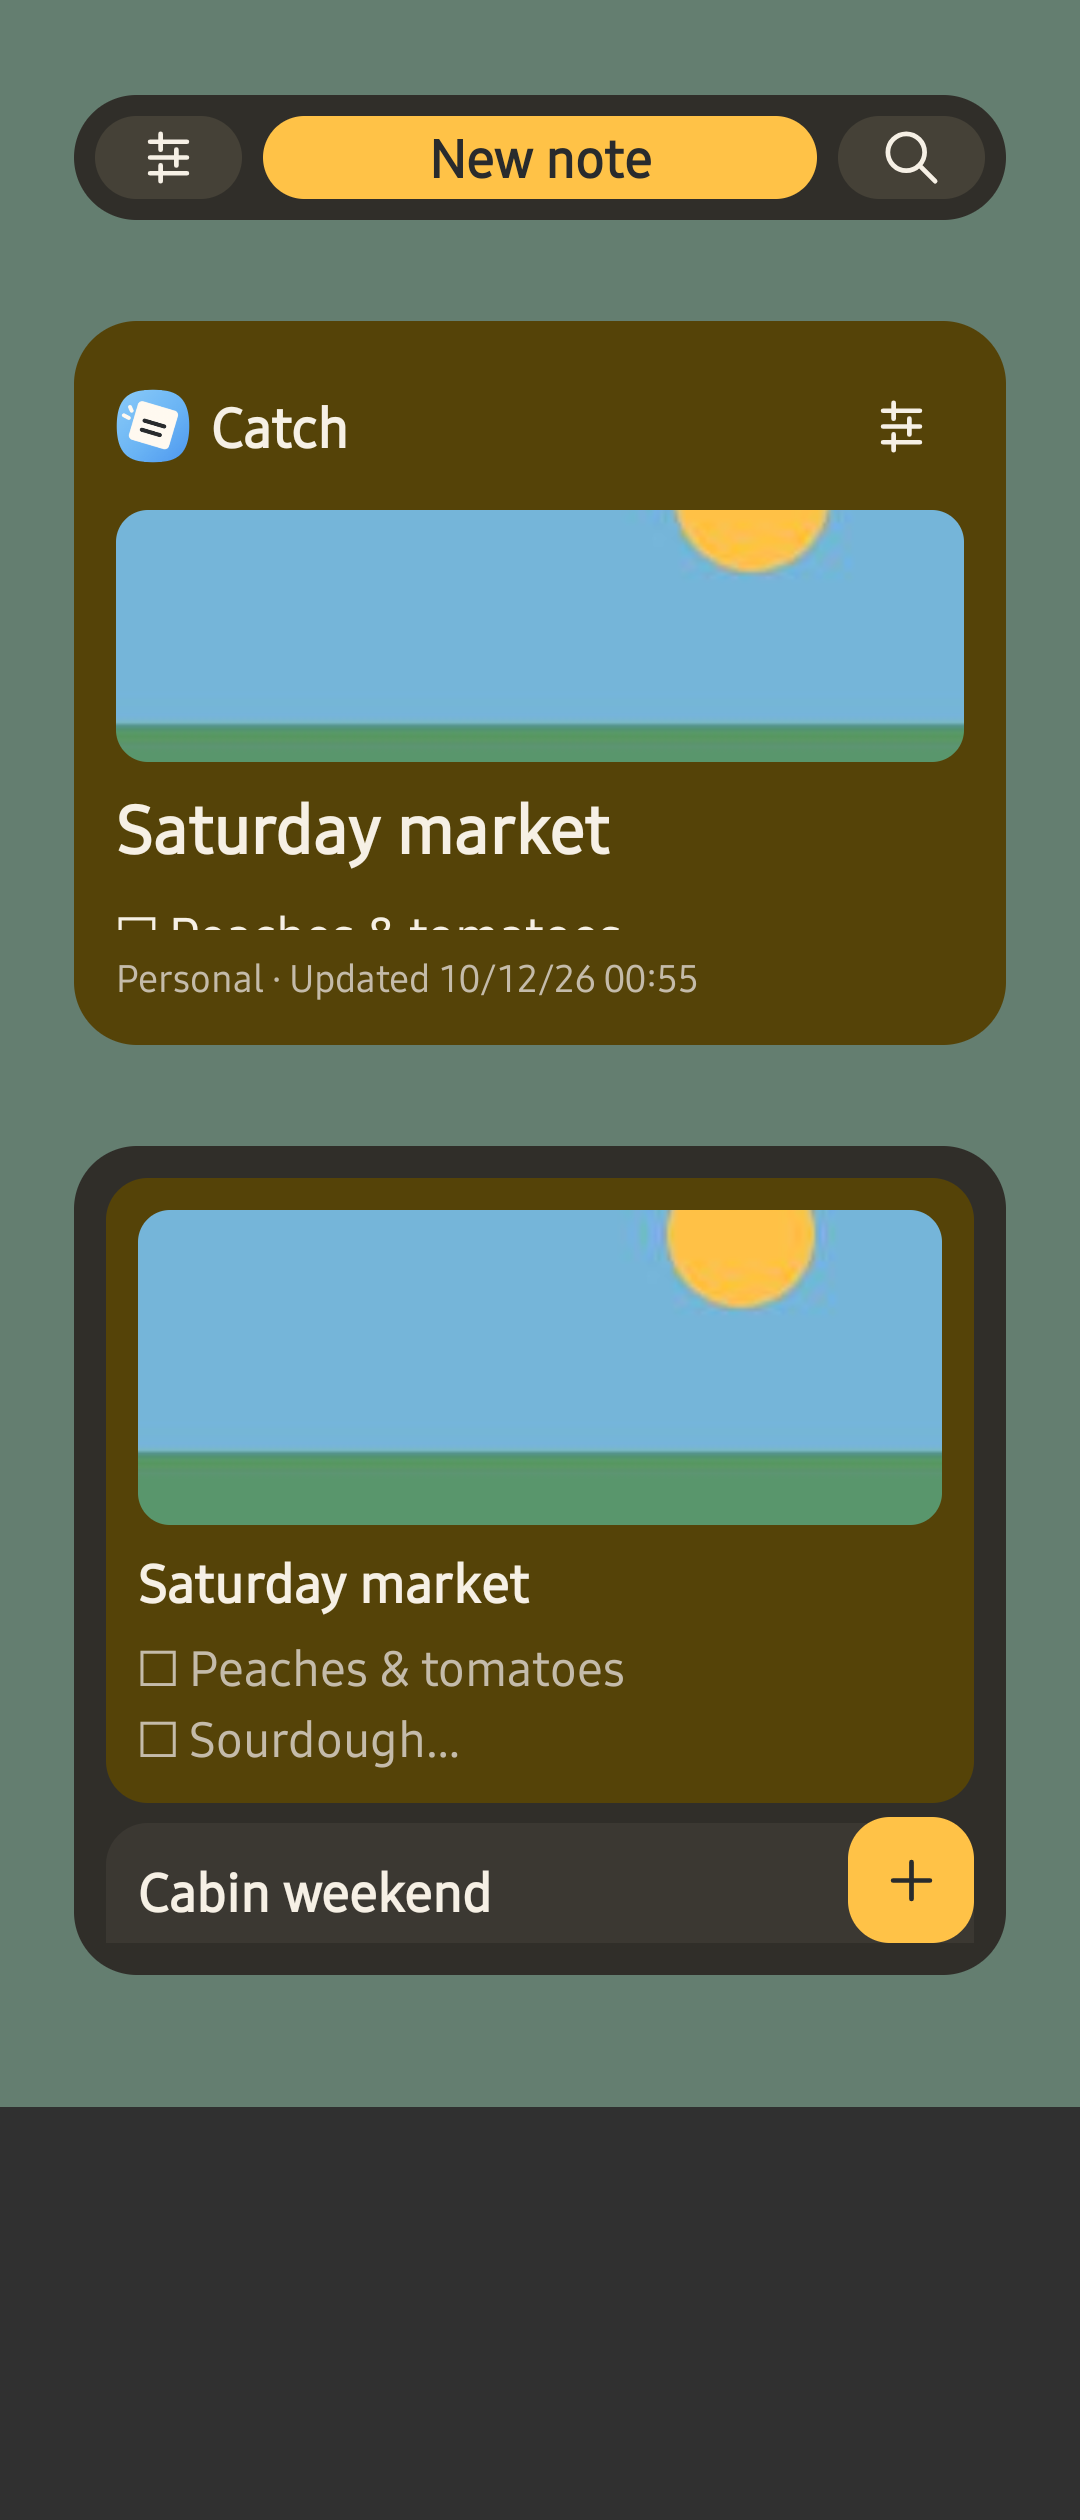
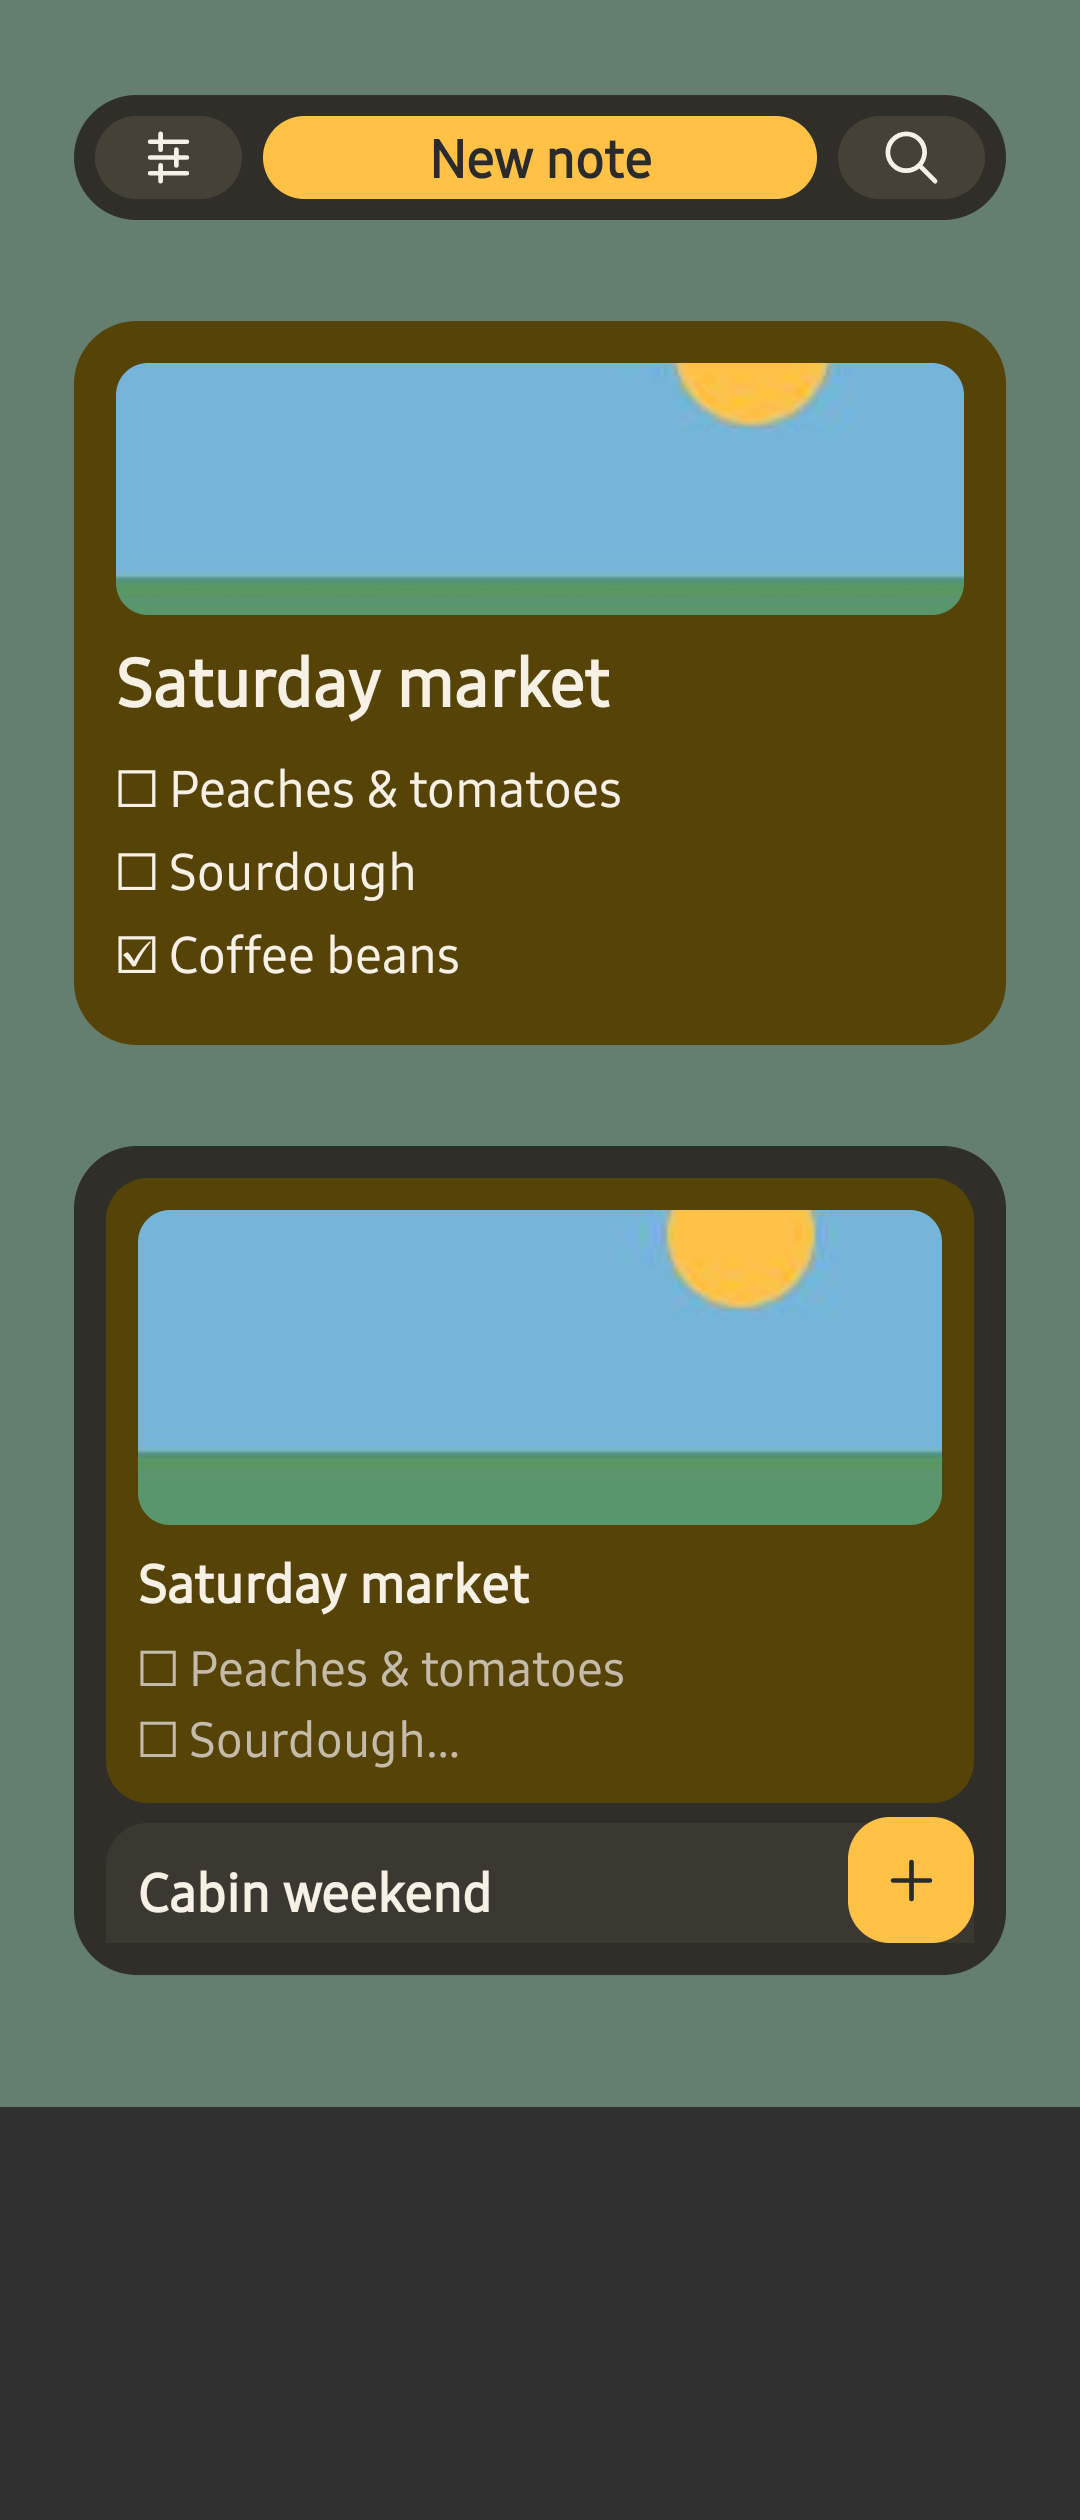
feat(android): remove the header and footer from the one note widget

Changed region(s): [[0.0917, 0.1238, 0.9167, 0.4024], [0.5806, 0.3714, 0.6417, 0.4024], [0.5194, 0.3714, 0.55, 0.4024]]

diff --git a/apps/web/android/app/src/main/java/org/iloni/catchnotes/CatchWidgetProvider.java b/apps/web/android/app/src/main/java/org/iloni/catchnotes/CatchWidgetProvider.java
@@ -120,8 +120,8 @@ public class CatchWidgetProvider extends AppWidgetProvider {
                         ? (customTheme ? R.layout.widget_capture_custom : R.layout.widget_capture)
                         : "single".equals(kind)
                                 ? (customTheme
-                                        ? R.layout.widget_single_scroll_custom
-                                        : R.layout.widget_single_scroll)
+                                        ? R.layout.widget_single_minimal_custom
+                                        : R.layout.widget_single_minimal)
                                 : (customTheme
                                         ? R.layout.widget_list_minimal_custom
                                         : R.layout.widget_list_minimal);
@@ -130,10 +130,10 @@ public class CatchWidgetProvider extends AppWidgetProvider {
         views.setImageViewResource(R.id.widget_surface, R.drawable.widget_surface);
         if (customTheme) {
             views.setInt(R.id.widget_surface, "setColorFilter", dark ? 0xff302e29 : 0xfffff9f0);
-            if (!"list".equals(kind))
+            if ("capture".equals(kind))
                 views.setInt(R.id.widget_settings, "setColorFilter", ink(dark));
         }
-        if (!"list".equals(kind))
+        if ("capture".equals(kind))
             views.setOnClickPendingIntent(R.id.widget_settings, configureIntent(context, id));
         boolean signedIn = account.length() > 0;
         if ("capture".equals(kind)) {
@@ -167,40 +167,16 @@ public class CatchWidgetProvider extends AppWidgetProvider {
             views.setViewVisibility(
                     R.id.widget_search, width > 0 && width < 250 ? View.GONE : View.VISIBLE);
         } else {
-            if (customTheme && "single".equals(kind)) {
-                views.setTextColor(R.id.widget_heading, ink(dark));
-                views.setTextColor(R.id.widget_footer, muted(dark));
-            }
             List<JSONObject> notes = WidgetStore.notes(snapshot, config);
             if ("single".equals(kind)) {
-                String updated =
-                        account.optLong("updated") == 0
-                                ? "Open Catch to load notes"
-                                : "Updated "
-                                        + android.text.format.DateFormat.getDateFormat(context)
-                                                .format(
-                                                        new java.util.Date(
-                                                                account.optLong("updated")))
-                                        + " "
-                                        + android.text.format.DateFormat.getTimeFormat(context)
-                                                .format(
-                                                        new java.util.Date(
-                                                                account.optLong("updated")));
-                views.setTextViewText(
-                        R.id.widget_footer,
-                        signedIn
-                                ? account.optString("label") + " · " + updated
-                                : "Choose an account in widget settings");
                 JSONObject note = notes.isEmpty() ? null : notes.get(0);
-                int height =
-                        AppWidgetManager.getInstance(context)
-                                .getAppWidgetOptions(id)
-                                .getInt(AppWidgetManager.OPTION_APPWIDGET_MIN_HEIGHT, 250);
-                boolean compact = height < 220;
-                views.setViewVisibility(R.id.widget_footer, compact ? View.GONE : View.VISIBLE);
-                views.setTextViewText(R.id.widget_heading, "Catch");
                 views.setTextViewText(
-                        R.id.widget_empty, "Open widget settings to choose an available note.");
+                        R.id.widget_empty,
+                        !signedIn
+                                ? "Set up this widget to see a note."
+                                : account.optLong("updated") == 0
+                                        ? "Open Catch to load notes."
+                                        : "Touch to choose an available note.");
                 views.setOnClickPendingIntent(R.id.widget_empty, configureIntent(context, id));
                 views.setViewVisibility(R.id.widget_note, note == null ? View.GONE : View.VISIBLE);
                 views.setViewVisibility(R.id.widget_empty, note == null ? View.VISIBLE : View.GONE);

diff --git a/apps/web/android/app/src/test/java/org/iloni/catchnotes/WidgetLayoutTest.java b/apps/web/android/app/src/test/java/org/iloni/catchnotes/WidgetLayoutTest.java
@@ -123,9 +123,17 @@ public class WidgetLayoutTest {
         assertTrue(fab.getTop() < notes.getBottom());
         assertTrue(fab.getHeight() >= Math.round(48 * density));
         assertTrue(notes.getPaddingBottom() > fab.getHeight());
-        assertNull(live.findViewById(R.id.widget_heading));
-        assertNull(live.findViewById(R.id.widget_footer));
         assertNull(live.findViewById(R.id.widget_settings));
+        for (int layout :
+                new int[] {R.layout.widget_single_minimal, R.layout.widget_preview_single}) {
+            View single =
+                    new RemoteViews(context.getPackageName(), layout)
+                            .apply(context, new FrameLayout(context));
+            measure(single, Math.round(140 * density), Math.round(180 * density));
+            assertTrue(
+                    single.findViewById(R.id.widget_note).getHeight() >= single.getHeight() * 0.75);
+            assertNull(single.findViewById(R.id.widget_settings));
+        }
     }
 
     private static void measure(View view, int width, int height) {
@@ -143,22 +151,22 @@ public class WidgetLayoutTest {
                 new android.appwidget.AppWidgetProviderInfo();
         info.provider =
                 new android.content.ComponentName(context, CatchWidgetProvider.Single.class);
-        info.initialLayout = R.layout.widget_single;
+        info.initialLayout = R.layout.widget_single_minimal;
         host.setAppWidget(1, info);
         RemoteViews forced =
-                new RemoteViews(context.getPackageName(), R.layout.widget_single_scroll_custom);
-        forced.setTextColor(R.id.widget_heading, 0xffff0000);
+                new RemoteViews(context.getPackageName(), R.layout.widget_single_minimal_custom);
+        forced.setTextColor(R.id.widget_empty, 0xffff0000);
         host.updateAppWidget(forced);
         assertEquals(
                 0xffff0000,
-                ((android.widget.TextView) host.findViewById(R.id.widget_heading))
+                ((android.widget.TextView) host.findViewById(R.id.widget_empty))
                         .getCurrentTextColor());
         RemoteViews system =
-                new RemoteViews(context.getPackageName(), R.layout.widget_single_scroll);
+                new RemoteViews(context.getPackageName(), R.layout.widget_single_minimal);
         host.updateAppWidget(system);
         assertEquals(
                 context.getResources().getColor(R.color.widget_ink),
-                ((android.widget.TextView) host.findViewById(R.id.widget_heading))
+                ((android.widget.TextView) host.findViewById(R.id.widget_empty))
                         .getCurrentTextColor());
     }
 }

diff --git a/docs/android-widgets.md b/docs/android-widgets.md
@@ -4,16 +4,16 @@ Catch provides Quick capture, One note, and Note list widgets. Open Catch and si
 in before adding one from the launcher's widget picker. Each widget has its own
 account and appearance. A list can show pinned notes, Gallery, all notes, a tag including descendants,
 or a Deck column. Rounded note cards retain their colors and checklist previews.
-The list dedicates its space to cards with a floating New note button, without
-header or footer bars, and its + button has the same rounded-square shape as Catch's
-other controls. One note scrolls through the full note text. Both note widgets can
+Neither note widget has header or footer bars. The list dedicates its space to cards
+with a floating New note button, whose + has the same rounded-square shape as Catch's
+other controls. One note shows only the note and scrolls through its full text. Both note widgets can
 show one image above the note title: the first image attachment, or a visible link preview thumbnail
 when no attached image is available. Hidden or disabled link previews stay hidden.
 Images are cached with the widget so they remain visible offline.
 Use the custom setup dialog to choose content and appearance.
-To change a placed list, touch and hold it and choose the launcher's Edit/Reconfigure
-option. On older launchers without this action, remove and add it again. Quick capture
-and One note keep their settings buttons.
+To change a placed list or One note widget, touch and hold it and choose the launcher's
+Edit/Reconfigure option. On older launchers without this action, remove and add it again.
+Quick capture keeps its settings button.
 
 Previews refresh while that account is open in Catch, including offline edits.
 The last preview remains available with Catch closed. Vault notes and shared

diff --git a/docs/decisions/0022-android-widgets.md b/docs/decisions/0022-android-widgets.md
@@ -38,10 +38,10 @@ The widget providers and list service render that file while the WebView is abse
 
 **Refresh follows the account in use.** Local optimistic edits and streamed changes
 publish a coalesced snapshot. An account not open in Catch retains its last snapshot;
-there is no background HTTP fetch. Setup explains this and One note shows when
-the snapshot was updated. Note list uses the available space for cards and a
-floating New note button, with no header or footer bars. Scroll padding lets the
-last card move above the button. List configuration stays in the launcher's
+there is no background HTTP fetch. Setup explains this. Neither note widget has
+header or footer bars: One note shows only its note, and Note list uses the
+available space for cards and a floating New note button. Scroll padding lets the
+last card move above the button. Their configuration stays in the launcher's
 Edit/Reconfigure action; older launchers can remove and add it again.
 Deleted, trashed and archived notes disappear when
 observed. A missing selected note, tag or column directs the user to configuration.
